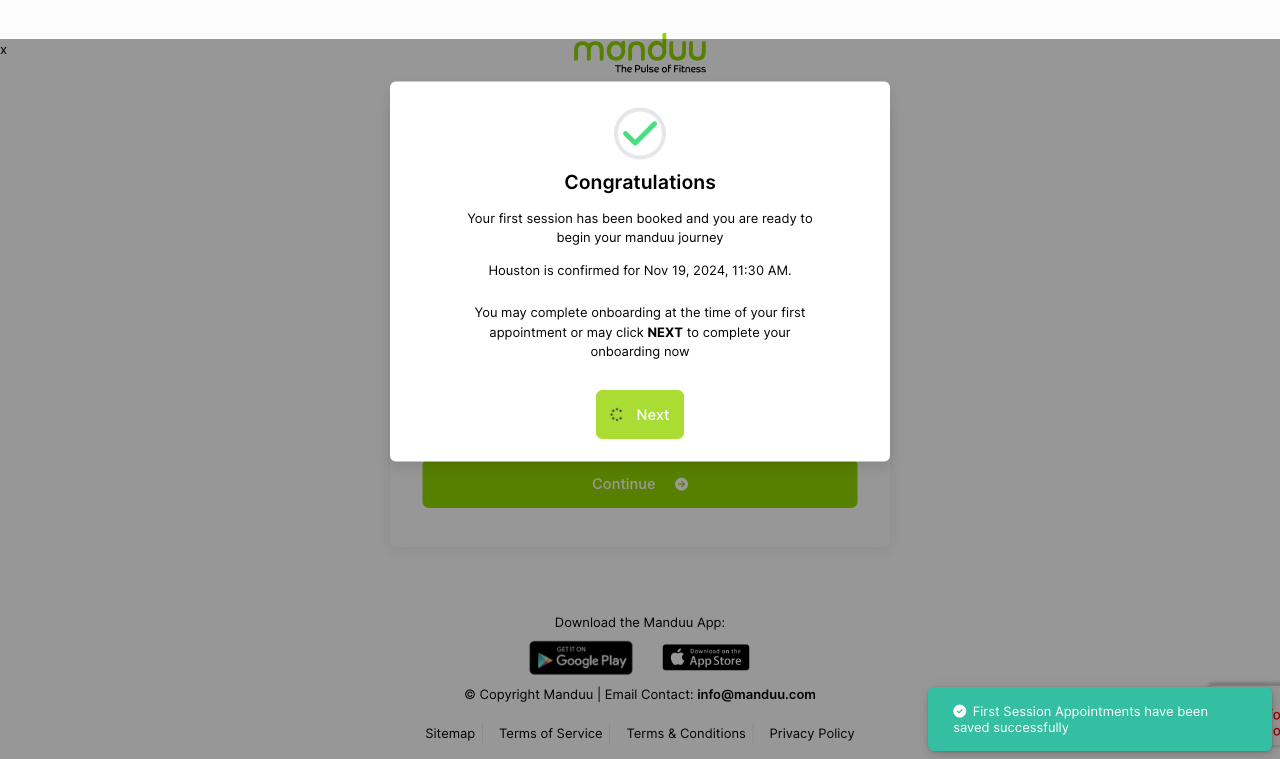
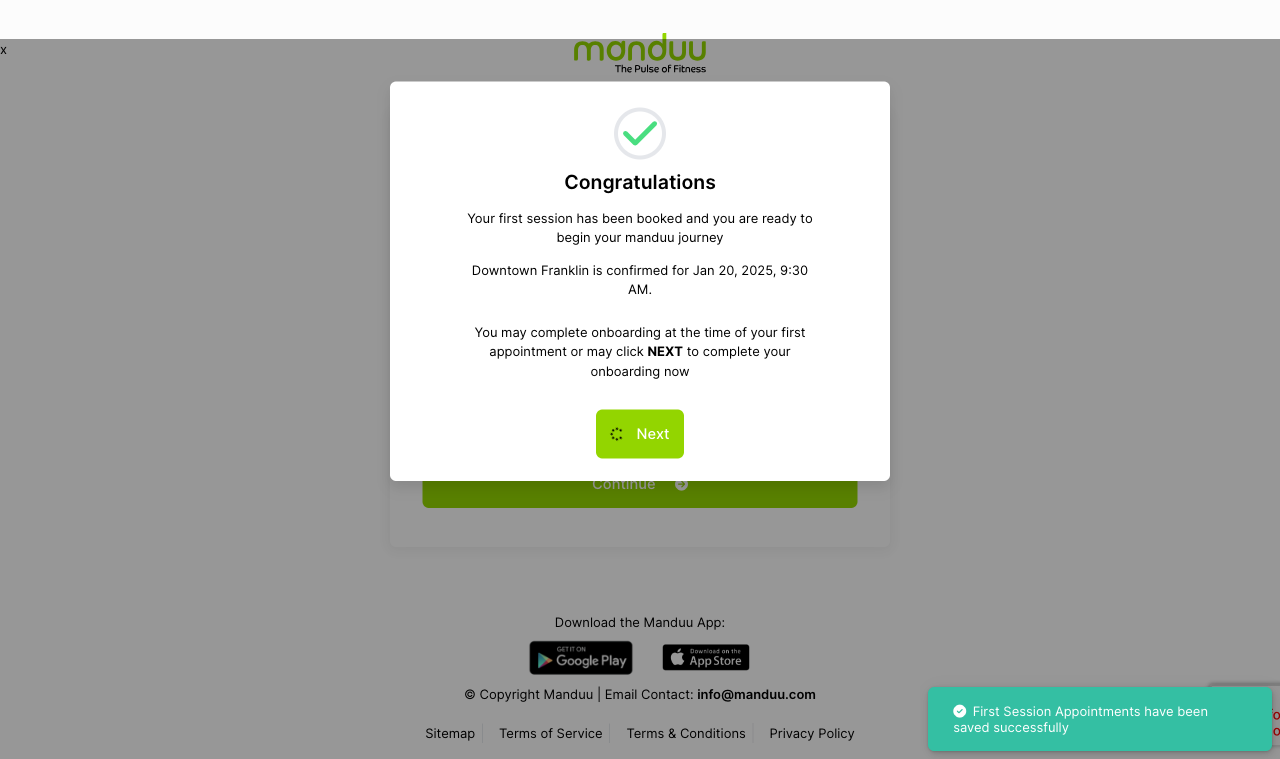
delete user

Changed region(s): [[0.2812, 0.3939, 0.7188, 0.6364], [0.375, 0.3333, 0.625, 0.3636]]

diff --git a/tests/newonboarding2.spec.ts b/tests/newonboarding2.spec.ts
@@ -1,41 +1,28 @@
 import { test, expect } from '@playwright/test';
 //import { currentsReporter } from '@currents/playwright';
 import { convertDate } from '../util/dateUtils.ts'
-import { deleteStaffMember } from '../util/deletenew.ts'
+import { expectedStudios } from '../util/studios.ts';
 
 
-const email = 'awabil.test1@gmail.com';
-const PhoneNumber = '8000000001';
-const password = 'TestUser@1';
+const email = 'test.awabil4@gmail.com';
+const PhoneNumber = '810-000-0001';
+
+const password = 'TestUser@1'
 const fName = 'test';
-const lName ='automate';
-//const selectStu = 'Houston';
-const selectStu = 'Downtown Franklin';
-const SelectedDate ='01/20/2025';
+const lName ='automate'
+const selectStu = 'Houston';
+const SelectedDate ='12/20/2024'
 let selectedTime: string | null = null;
-const expectedWarningText = 'will be deleted';
 
+// Ensure SelectedDate is defined
 
+// Now you can use SelectedDate
 let CalendarSelectedDate = convertDate(SelectedDate);
 console.log('Selected date', CalendarSelectedDate); // Output: "September 17, 2024"
 
 
-//const CalendarSelectedDate = 17 September, 2024
-// Convert selected date to calendar format
-// let CalendarSelectedDate = convertDate(SelectedDate);
-// console.log('Selected date',CalendarSelectedDate); // Output: "17 September, 2024"
 
 
-// Function to convert date format
-// function convertDate(date: string): string {
-//   const months = [
-//     "January", "February", "March", "April", "May", "June", 
-//     "July", "August", "September", "October", "November", "December"
-//   ];
-
-//   const [month, day, year] = date.split('/').map(part => parseInt(part, 10));
-//   return `${months[month - 1]} ${day}, ${year}`;
-// }
 
 
 
@@ -65,7 +52,7 @@ test('Onboarding', async ({ page }) => {
  await FirstAppointment(page);
 
 });
-
+20
 
 
 test('Executed first appointment', async ({ page }) => {
@@ -102,6 +89,7 @@ test('Executed first appointment', async ({ page }) => {
       console.error(`Selected time: ${selectedTime}`);
       console.error(`Client details: ${fName} ${lName}`);
     }
+  
     // Set the appointment type to "First Appointment"
     await page.locator('app-dropdown[placeholder="Type"] .p-dropdown-trigger').click();
     await page.locator('.p-dropdown-item:has-text("First Appointment")').click();
@@ -116,8 +104,7 @@ test('Executed first appointment', async ({ page }) => {
     // Select the personal coach / trainer
     await page.locator('app-dropdown[placeholder="Personal coach / Trainer"] .p-dropdown-trigger').click();
     await page.waitForTimeout(1000);
-    await page.locator('.p-dropdown-item').filter({ hasText: /^POSTestStaff POS$/ }).click();
-    // await page.locator('.p-dropdown-item').filter({ hasText: /^Test Manduu$/ }).click();
+    await page.locator('.p-dropdown-item').filter({ hasText: /^Test Manduu$/ }).click();
     console.log('Selected "Test Manduu" from the Personal coach / Trainer dropdown.');
   
     // Fill in the memo and save the appointment
@@ -360,41 +347,30 @@ async (page:any) => {
         await page.getByRole('button', { name: 'Sign Contract' }).click();
     // await page.locator('div').filter({ hasText: /^Fit 8 Plan \(Manduu Oklahoma\)$/ await page.getByRole('button', { name: 'Sign Contract' }).click();}).click();
     //await page.locator('div').filter({ hasText: /^Unlimi- Fit Plan Best Value \*H \(Manduu Houston\)$/ }).click();
-    //await page.locator('div').filter({ hasText: /^Test Kenn Konlan$/ }).first().click()
-
-
-    //New added
-    await page.locator('div').filter({ hasText: /^Flex 10 \*\$449\*$/ }).getByRole('radio').check();
-   await page.getByTitle('Sign Contract').locator('canvas').click({
-     position: {
-       x: 107,
-       y: 49
-     }
-   });
-   await page.getByRole('button', { name: '     Sign' }).click();
-
+    await page.locator('div').filter({ hasText: /^Test Kenn Konlan$/ }).first().click()
+   
     //locator('div').filter({ hasText: /^Test Kenn Konlan$/ }).nth(1)
     // await page.getByRole('button', { name: 'Continue' }).click();
-    // await page.getByTitle('Sign Contract').locator('canvas').click({
-    //   position: {
-    //     x: 109,
-    //     y: 56
-    //   }
-    // });
-    // await page.getByTitle('Sign Contract').locator('canvas').click({
-    //   position: {
-    //     x: 152,
-    //     y: 54
-    //   }
-    // });
+    await page.getByTitle('Sign Contract').locator('canvas').click({
+      position: {
+        x: 109,
+        y: 56
+      }
+    });
+    await page.getByTitle('Sign Contract').locator('canvas').click({
+      position: {
+        x: 152,
+        y: 54
+      }
+    });
     
   
-    //await page.getByRole('button', { name: 'Sign Here' }).first().click();
-    // await page.getByRole('button', { name: 'Sign Here' }).nth(1).click();
-    // await page.getByRole('button', { name: 'Sign Here' }).nth(2).click();
-    // await page.getByRole('button', { name: 'Sign Here' }).nth(3).click();
-    // await page.getByRole('button', { name: 'Sign Here' }).nth(4).click();
-    //await page.getByRole('button', { name: ' Sign' }).click();
+    await page.getByRole('button', { name: 'Sign Here' }).first().click();
+    await page.getByRole('button', { name: 'Sign Here' }).nth(1).click();
+    await page.getByRole('button', { name: 'Sign Here' }).nth(2).click();
+    await page.getByRole('button', { name: 'Sign Here' }).nth(3).click();
+    await page.getByRole('button', { name: 'Sign Here' }).nth(4).click();
+    await page.getByRole('button', { name: ' Sign' }).click();
     await page.getByRole('button', { name: 'Complete Onboarding' }).click();
     //await page.goto('https://newpwa.manduu.app/app/client/dashboard');
 
@@ -422,25 +398,3 @@ async (page:any) => {
        
        }
 
-
-       test('Delete test user by email and other details with full name validation', async ({ page }) => {
-        console.log('Starting test: Deleting user by email and other details with full name validation');
-        await deleteStaffMember(page, fName, lName, email, PhoneNumber, selectStu, expectedWarningText);
-        console.log(`Test completed successfully: The User with the ${email} and other details with full name validation`);
-    });
-
-      //  async function handleUsernameTaken(page) {
-      //   try {
-          
-      
-          
-      
-      //       console.log('Deleting the existed staff....');
-      
-      //       // Delete the existing staff member
-      //       await deleteStaffMember(page, email, firstName, lastName, expectedWarningText);
-      
-            
-        
-      //   }
-      // }

diff --git a/util/deletenew.ts b/util/deletenew.ts
@@ -1,0 +1,125 @@
+import { test, expect, Page } from '@playwright/test';
+
+// Utility function to delete a staff member
+export async function deleteStaffMember(
+    page: Page,
+    firstName: string,
+    lastName: string,
+    email: string,
+    phoneNumber: string,
+    studioName: string,
+    expectedWarningText: string
+) {
+    console.log('Navigating to dashboard...');
+    await page.goto('https://admin.manduu.app/app/main/dashboard');
+
+    console.log('Filling in the search field with email:', email);
+    await page.getByRole('textbox', { name: 'Search Client' }).fill(email);
+
+    console.log('Clicking the search button...');
+    await page.getByRole('button', { name: '' }).click();
+
+    console.log('Waiting for the table rows to load...');
+    await page.waitForSelector('#main-page-table-container tbody.p-element.p-datatable-tbody', { state: 'visible' });
+
+    // Optionally, add a small timeout to allow table content to load
+    await page.waitForTimeout(5000); // Wait for 5 seconds
+
+    const table = await page.locator('#main-page-table-container tbody.p-element.p-datatable-tbody');
+    const tableContent = await table.innerText();
+
+    if (!tableContent || tableContent.includes("There's no data available")) {
+        console.error('Table is empty or not found.');
+        throw new Error('Table is empty or not found.');
+    } else {
+        console.log('Table contents:', tableContent);  // Log the entire table contents for debugging
+    }
+
+    const rows = await page.$$('tbody.p-element.p-datatable-tbody tr');
+    let rowToClick: any = null;
+
+    console.log('Iterating through table rows to find a match...');
+    
+    for (const row of rows) {
+        const rowText = await row.innerText();
+        console.log('Row text:', rowText);  // Log the text of each row for debugging
+
+        // Check if all the necessary information is present in the row
+        if (
+            rowText.includes(firstName) &&
+            rowText.includes(lastName) &&
+            rowText.includes(email) &&
+            rowText.includes(phoneNumber) &&
+            rowText.includes(studioName)
+        ) {
+            rowToClick = row;
+            break;
+        }
+    }
+
+    if (!rowToClick) {
+        console.error('No matching row found for the specified details.');
+        throw new Error('No matching row found.');
+    }
+
+    console.log(`Row found: ${firstName} ${lastName}, ${email}, ${phoneNumber}, ${studioName}`);
+
+    console.log('Locating the action button in the row...');
+    const actionButton = await rowToClick.$('button.bg-primary-green.text-white.px-2.py-1.rounded-md.btn-sm.min-w-max');
+    if (!actionButton) {
+        console.error('Action button not found in the row.');
+        throw new Error('Action button not found.');
+    }
+
+    console.log('Clicking the action button...');
+    await actionButton.click();
+
+    console.log('Selecting the "Delete" option from the dropdown...');
+    const deleteOption = await page.getByRole('menuitem', { name: 'Delete' });
+    if (!deleteOption) {
+        console.error('Delete option not found.');
+        throw new Error('Delete option not found.');
+    }
+    await deleteOption.click();
+
+    console.log('Validating the warning message...');
+    const warningMessageElement = await page.$('div.modal-body p.text-xl');
+    if (!warningMessageElement) {
+        console.error('Warning message element not found.');
+        throw new Error('Warning message not found.');
+    }
+
+    const warningMessageText = await warningMessageElement.innerText();
+    console.log('Warning message displayed:', warningMessageText);
+
+    // Ensure the warning message contains the full name (first and last name)
+    if (!warningMessageText.includes(firstName) || !warningMessageText.includes(lastName)) {
+        console.error('Warning message does not contain the full name.');
+        throw new Error('Warning message does not contain the full name.');
+    }
+
+    console.log('Confirming the deletion...');
+    const confirmButton = await page.getByRole('button', { name: 'Yes' });
+    if (!confirmButton) {
+        console.error('Confirmation button not found.');
+        throw new Error('Confirmation button not found.');
+    }
+    await confirmButton.click();
+
+    console.log('Staff member deletion confirmed.');
+}
+
+// Test data
+const firstName = 'test';
+const lastName = 'automate';
+const email = 'awabil.test1@gmail.com';
+const phoneNumber = '8000000001';
+const studioName = 'Downtown Franklin';
+const expectedWarningText = 'will be deleted';
+
+// Main test
+// test('Delete test user by email and other details with full name validation', async ({ page }) => {
+//     console.log('Starting test: Delete user by email and other details with full name validation');
+//     await deleteStaffMember(page, firstName, lastName, email, phoneNumber, studioName, expectedWarningText);
+//     console.log(`Test completed successfully: Delete the new created client; ${email} and other details with full name validation`);
+// });

diff --git a/util/dateUtils.ts b/util/dateUtils.ts
@@ -1,0 +1,10 @@
+// dateUtils.ts
+export function convertDate(date: string): string {
+  const months = [
+    "January", "February", "March", "April", "May", "June", 
+    "July", "August", "September", "October", "November", "December"
+  ];
+
+  const [month, day, year] = date.split('/').map(part => parseInt(part, 10));
+  return `${months[month - 1]} ${day}, ${year}`;
+}
